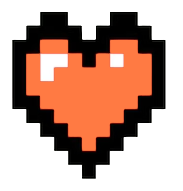
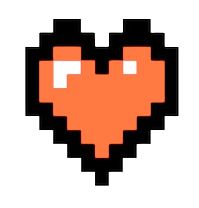
wip

Changed region(s): [[0.0546, 0.0524, 0.929, 0.9424]]

diff --git a/PacePal/Localized.swift b/PacePal/Localized.swift
@@ -117,14 +117,15 @@ private let _questionnaire: [String: [AppLang: String]] = [
     "q4.c":                     [.es: "Rendir al máximo",             .en: "Perform at my best"],
 
     "q.result_title":           [.es: "Tu nivel recomendado",         .en: "Your recommended level"],
-    "q.result_body_habito":     [.es: "Solo necesitas correr 0.1 km al día para que cuente. Perfecto para construir el hábito sin presión.",
-                                 .en: "Just 0.1 km a day counts as a completed day. Perfect for building the habit without pressure."],
-    "q.result_body_resistencia":[.es: "0.5 km al día marca el día como completado. El balance ideal para corredores regulares.",
-                                 .en: "0.5 km a day marks the day as completed. The ideal balance for regular runners."],
-    "q.result_body_rendimiento":[.es: "Necesitas correr 1 km al día para que cuente. Para quienes ya corren fuerte y quieren un reto real.",
-                                 .en: "You need to run 1 km a day for it to count. For those who already run hard and want a real challenge."],
+    "q.result_body_habito":     [.es: "Solo necesitas correr 0.1 km al día para que cuente. Tienes 5 corazones: pierdes uno por cada día que no corres, ganas uno al correr.",
+                                 .en: "Just 0.1 km a day counts as a completed day. You have 5 hearts: lose one for each day you skip, earn one when you run."],
+    "q.result_body_resistencia":[.es: "0.5 km al día marca el día como completado. Tienes 3 corazones: pierdes uno por cada día que no corres, ganas uno al correr.",
+                                 .en: "0.5 km a day marks the day as completed. You have 3 hearts: lose one for each day you skip, earn one when you run."],
+    "q.result_body_rendimiento":[.es: "Necesitas correr 1 km al día para que cuente. La energía baja con el tiempo: cada km te da 7% de energía.",
+                                 .en: "You need to run 1 km a day for it to count. Energy drops over time: each km gives you 7% energy."],
     "q.stat_min_day":           [.es: "mín/día",                      .en: "min/day"],
     "q.stat_energy":            [.es: "energía",                      .en: "energy"],
+    "q.stat_hearts":            [.es: "%d corazones",                 .en: "%d hearts"],
     "q.result_badge":           [.es: "TU NIVEL",                     .en: "YOUR LEVEL"],
     "q.result_change":          [.es: "Cambiar nivel",                .en: "Change level"],
     "q.result_confirm":         [.es: "Empezar con este nivel",       .en: "Start with this level"],
@@ -377,7 +378,7 @@ private let _history: [String: [AppLang: String]] = [
 private let _settings: [String: [AppLang: String]] = [
     "settings.title":               [.es: "Ajustes",          .en: "Settings"],
     "settings.tutorial_title":      [.es: "Ver tutorial",     .en: "View tutorial"],
-    "settings.tutorial_subtitle":   [.es: "Repasa cómo funciona la energía", .en: "Review how energy works"],
+    "settings.tutorial_subtitle":   [.es: "Repasa cómo funciona tu compañero", .en: "Review how your companion works"],
     "settings.background_title":    [.es: "Cambiar fondo",    .en: "Change background"],
     "settings.background_subtitle": [.es: "Personaliza el fondo de tu pantalla", .en: "Customize your screen background"],
     "settings.sounds_title":        [.es: "Sonidos",          .en: "Sounds"],

diff --git a/PacePal/Views/QuestionnaireView.swift b/PacePal/Views/QuestionnaireView.swift
@@ -453,14 +453,21 @@ private struct LevelStatsBullets: View {
         return "\(s) km \(L("q.stat_min_day"))"
     }
 
-    private var energyLabel: String {
-        "\(Int(level.energyPerKm * 100))% \(L("q.stat_energy")) / km"
+    private var secondaryLabel: String {
+        if level.usesHearts {
+            return L("q.stat_hearts", level.maxHearts)
+        }
+        return "\(Int(level.energyPerKm * 100))% \(L("q.stat_energy")) / km"
+    }
+
+    private var secondaryIcon: String {
+        level.usesHearts ? "heart.fill" : "bolt.fill"
     }
 
     var body: some View {
         VStack(alignment: .leading, spacing: 5) {
-            Label(kmLabel,     systemImage: "figure.run")
-            Label(energyLabel, systemImage: "bolt.fill")
+            Label(kmLabel,        systemImage: "figure.run")
+            Label(secondaryLabel, systemImage: secondaryIcon)
         }
         .font(.system(size: 13, weight: .semibold, design: .rounded))
         .foregroundStyle(color)

diff --git a/PacePal/Views/SettingsView.swift b/PacePal/Views/SettingsView.swift
@@ -704,7 +704,11 @@ struct LevelPickerSheet: View {
                                 let km = level.runThreshold
                                 let kmStr = km == km.rounded(.towardZero) && km >= 1 ? String(Int(km)) : String(format: "%.1g", km)
                                 Label("\(kmStr) km \(L("q.stat_min_day"))", systemImage: "figure.run")
-                                Label("\(Int(level.energyPerKm * 100))% \(L("q.stat_energy")) / km", systemImage: "bolt.fill")
+                                if level.usesHearts {
+                                    Label(L("q.stat_hearts", level.maxHearts), systemImage: "heart.fill")
+                                } else {
+                                    Label("\(Int(level.energyPerKm * 100))% \(L("q.stat_energy")) / km", systemImage: "bolt.fill")
+                                }
                             }
                             .font(.system(size: 12, weight: .medium, design: .rounded))
                             .foregroundStyle(Color(hex: "#9AA5B4"))